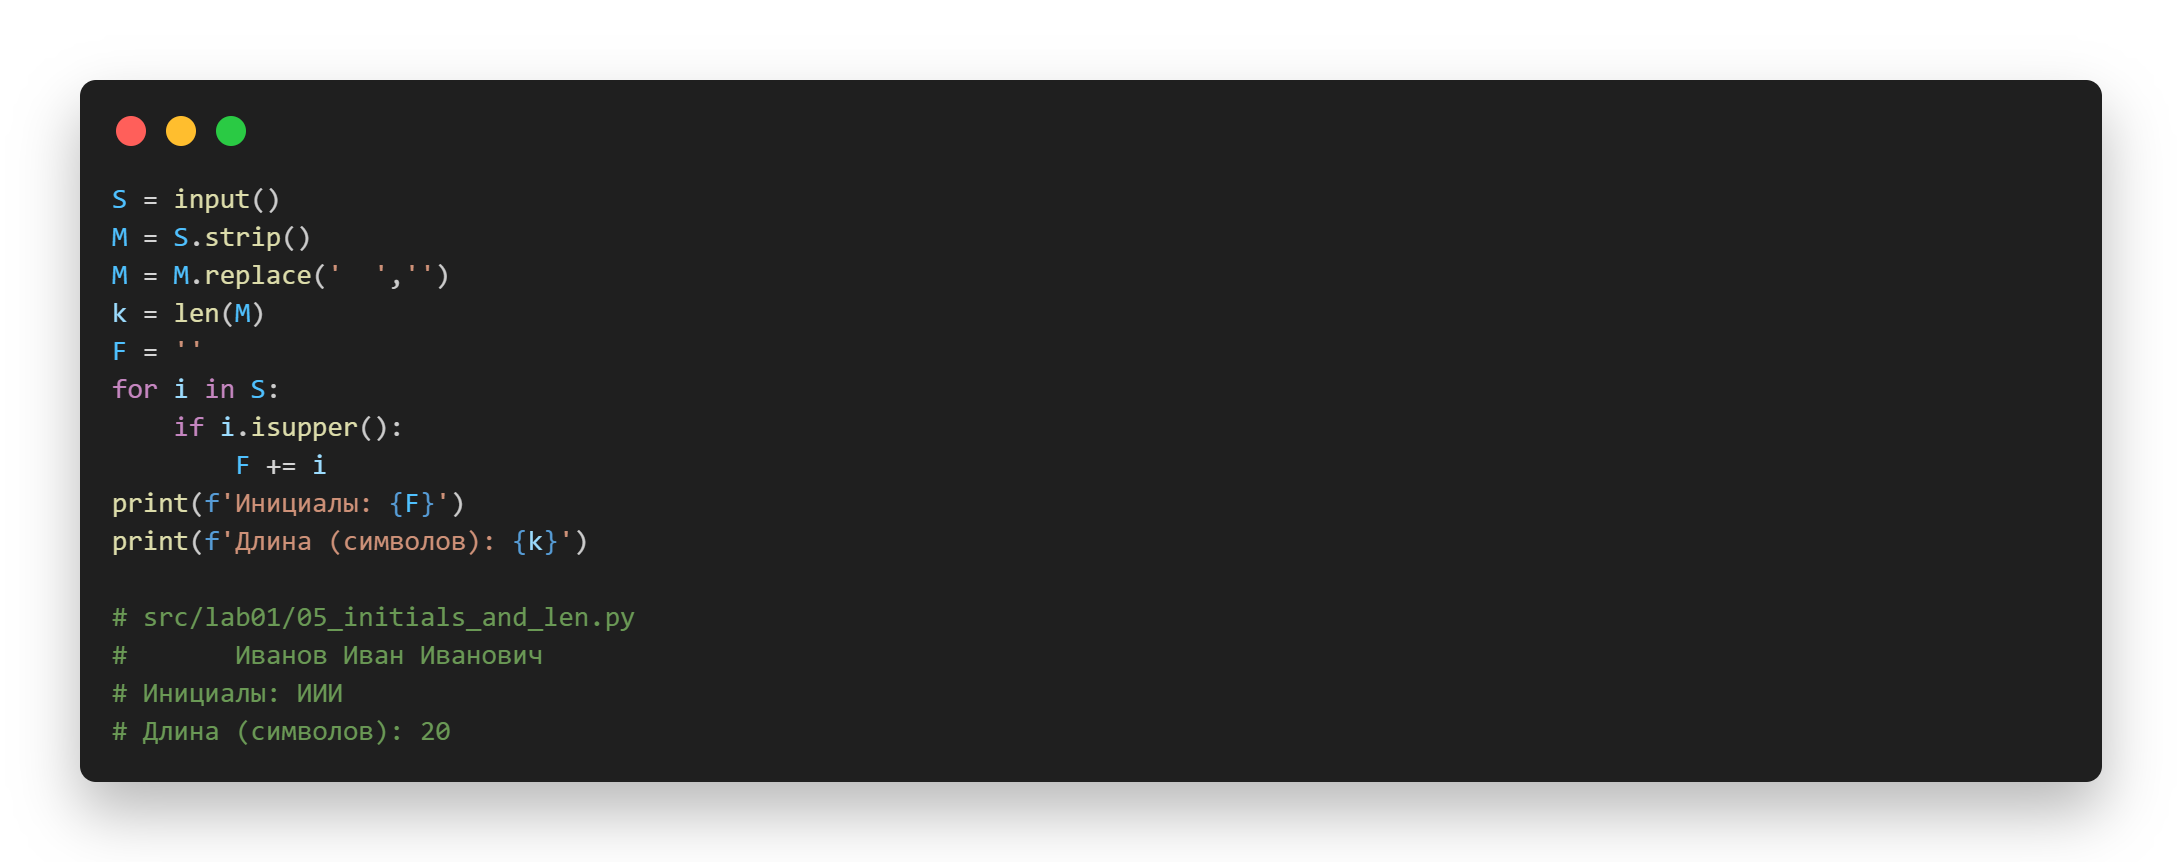
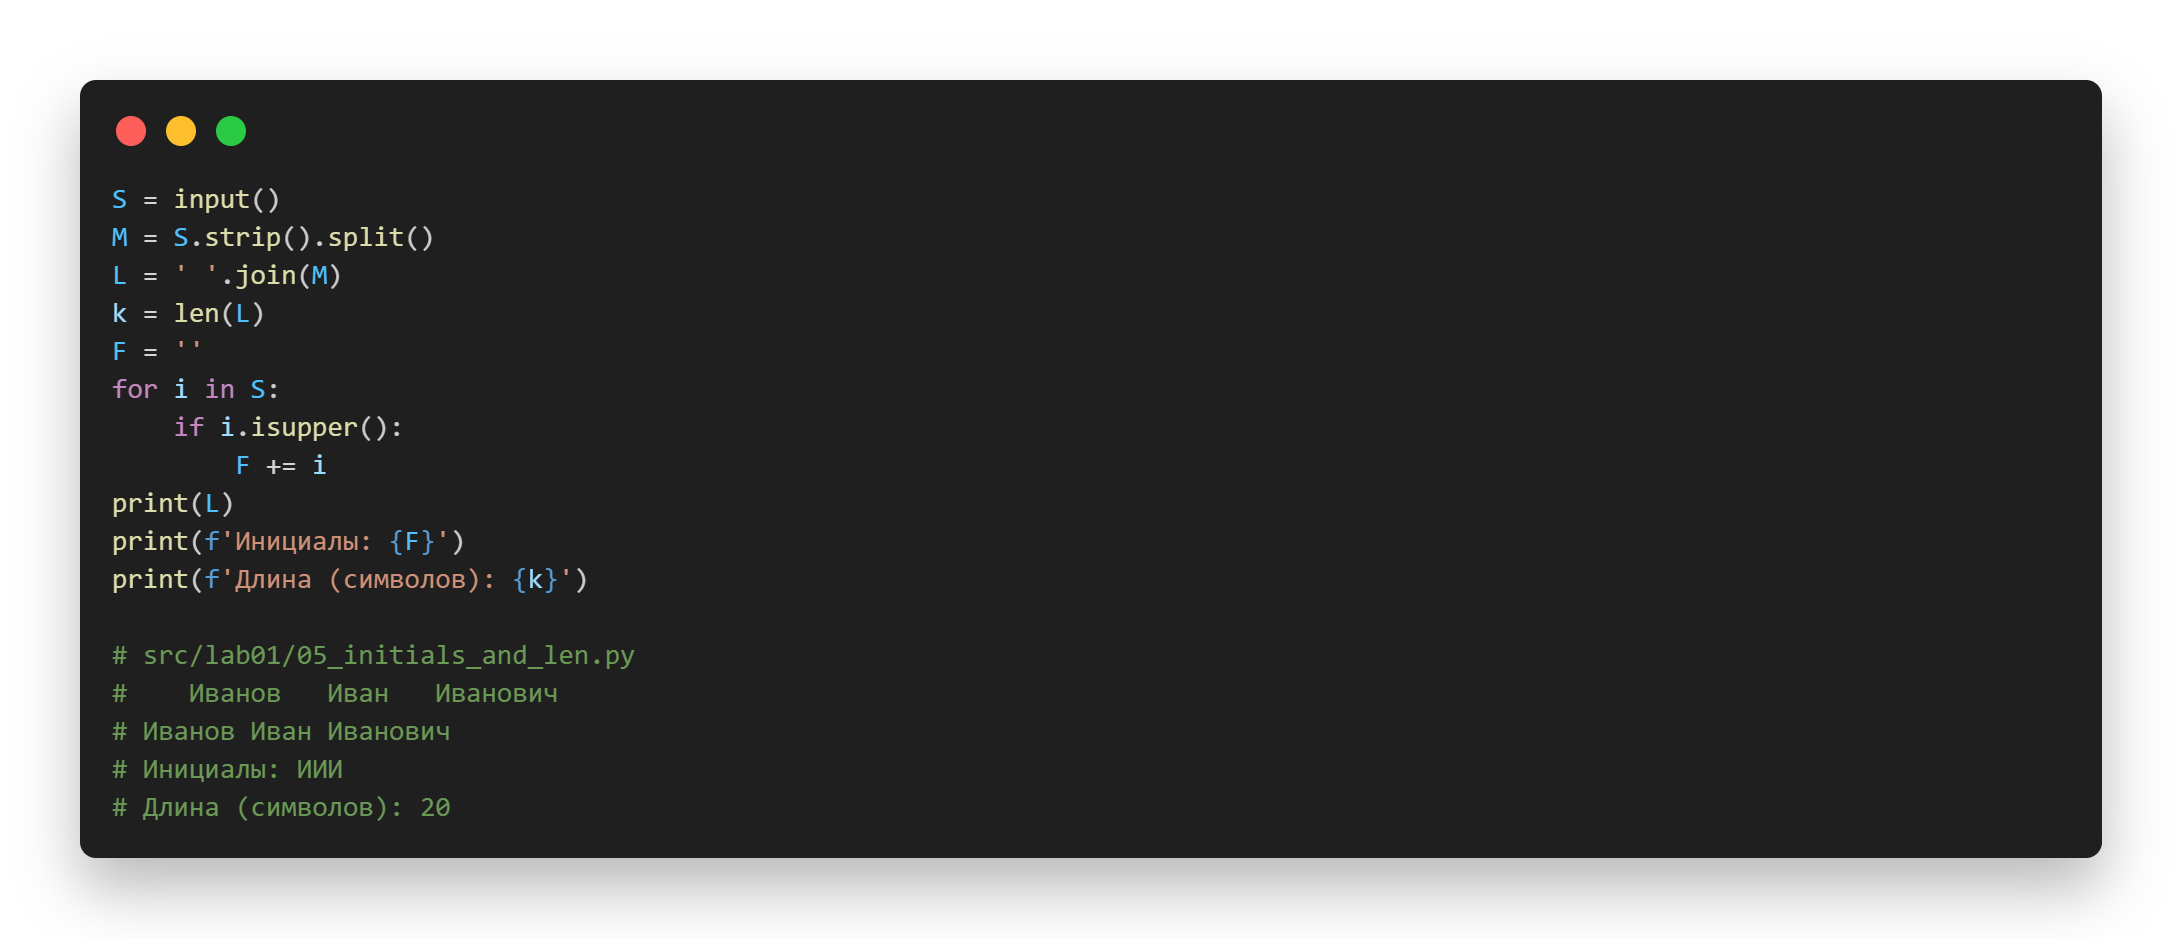
ex5

diff --git a/src/lab01/05_initials_and_len.py b/src/lab01/05_initials_and_len.py
@@ -1,15 +1,17 @@
 S = input()
-M = S.strip()
-M = M.replace('  ','')
-k = len(M)
+M = S.strip().split()
+L = ' '.join(M)
+k = len(L)
 F = ''
 for i in S:
     if i.isupper():
         F += i
+print(L)
 print(f'Инициалы: {F}')
 print(f'Длина (символов): {k}')
 
 # src/lab01/05_initials_and_len.py
-#       Иванов Иван Иванович
+#    Иванов   Иван   Иванович
+# Иванов Иван Иванович
 # Инициалы: ИИИ
 # Длина (символов): 20
